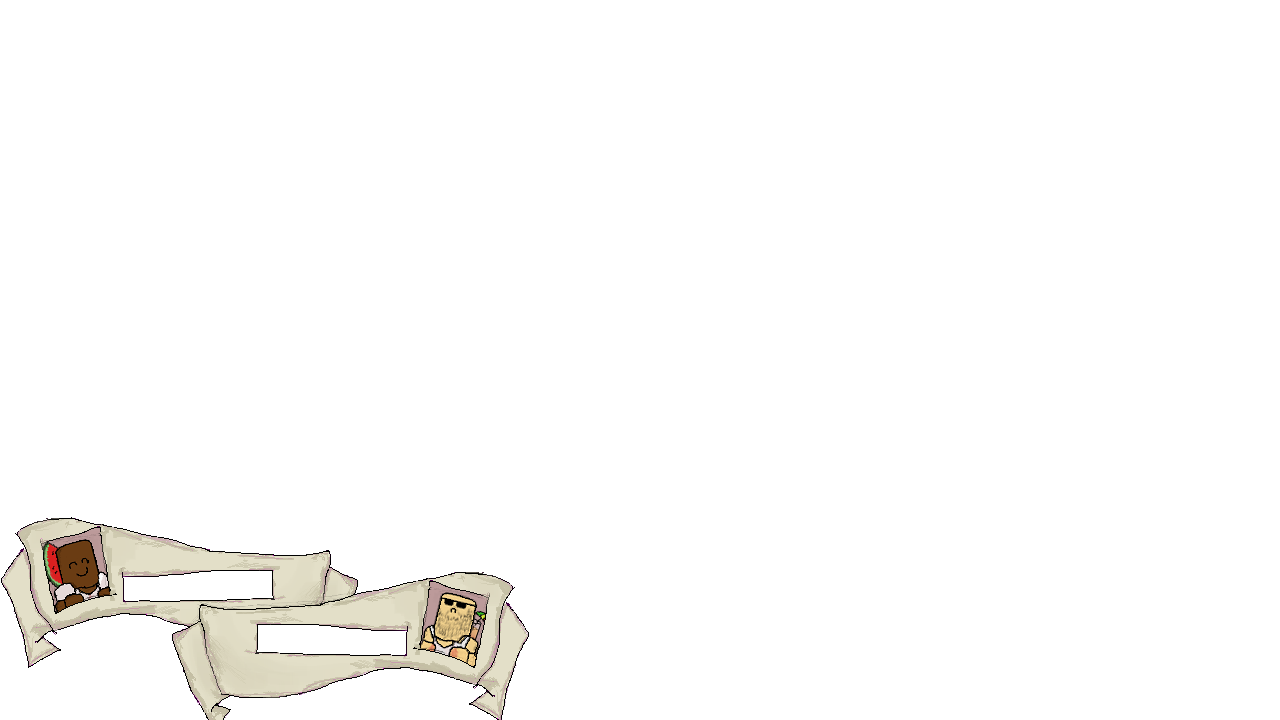
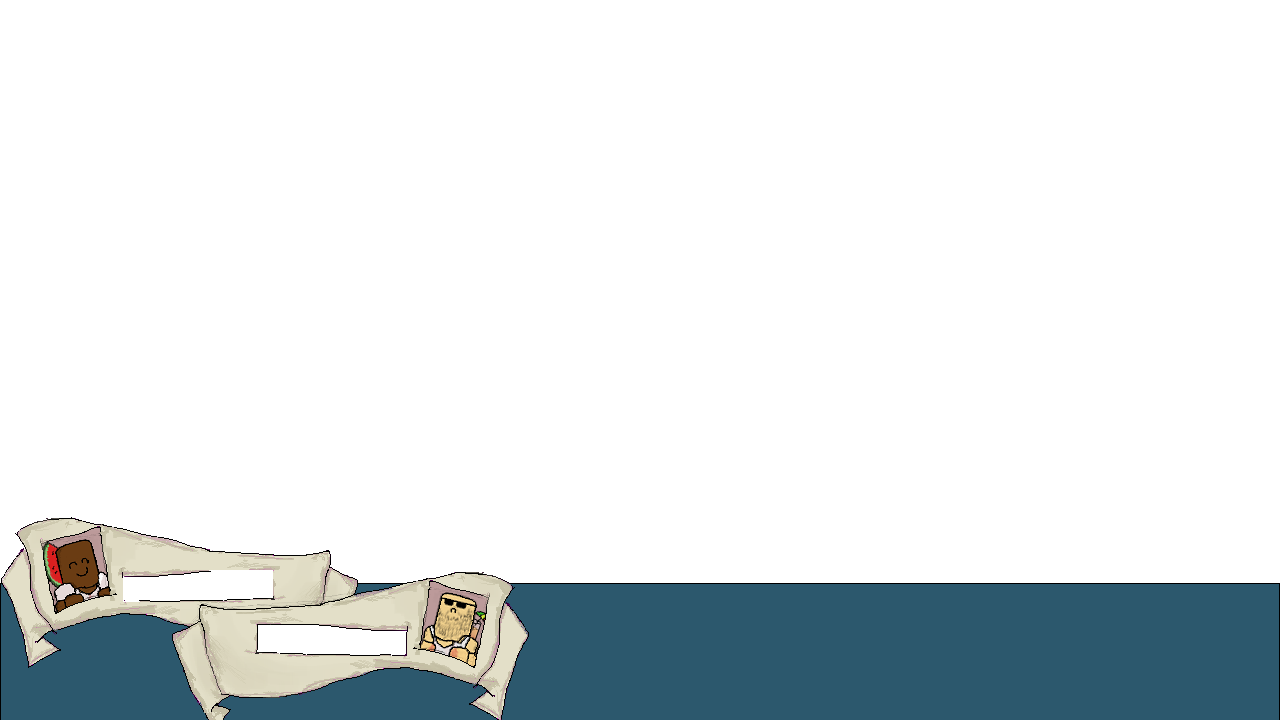
Gjort level 2, kameraren, ritat bilder mm

Changed region(s): [[0.0, 0.7944, 1.0, 1.0], [0.2812, 0.7944, 0.3125, 0.825]]

diff --git a/Johnny_Punch/Johnny_Punch/Level/Level_manager.cs b/Johnny_Punch/Johnny_Punch/Level/Level_manager.cs
@@ -14,31 +14,33 @@ namespace Johnny_Punch
 {
     class LevelManager
     {
+        StreamReader streamReaderEnvironment, streamReaderItems;
         List<string> strings = new List<string>();
         List<Environment> enviromentList = new List<Environment>();
         public List<Item> itemList = new List<Item>();
-        StreamReader streamReaderEnvironment, streamReaderItems;
-        public static int levelNr = 2;
+        public static int levelNr = 1, levelEndPosX;
+        public Rectangle nextLevelBox;
 
         public LevelManager(ContentManager Content)
         {
-            streamReaderEnvironment = new StreamReader(@"lvl1environment.txt");
-            streamReaderItems = new StreamReader(@"lvl1items.txt");
+            streamReaderEnvironment = new StreamReader(@"lvl" + LevelManager.levelNr + "environment.txt");
+            streamReaderItems = new StreamReader(@"lvl" + LevelManager.levelNr + "items.txt");
             MapReader(streamReaderEnvironment);
             ItemReader(streamReaderItems);
+            
         }
 
         public void Update(GameTime gameTime)
         {
-            if (levelNr == 1) //vet ej om detta kommer att fungera, men kan få vara grunden tills vidare
+            if (levelNr == 1)
             {
-                streamReaderEnvironment = new StreamReader(@"lvl1environment.txt");
-                streamReaderItems = new StreamReader(@"lvl1items.txt");
+                levelEndPosX = 5000; //man kan inte gå förbi detta i X-led (player.Movement)
+                nextLevelBox = new Rectangle(levelEndPosX, (int)335, 40, 300); //tar man i denna går man över till level 2
             }
             if (levelNr == 2)
             {
-                streamReaderEnvironment = new StreamReader(@"lvl2environment.txt");
-                streamReaderItems = new StreamReader(@"lvl2items.txt");
+                levelEndPosX = 2500;
+                nextLevelBox = new Rectangle(levelEndPosX, (int)335, 40, 300);
             }
 
             foreach (Item item in itemList)
@@ -57,10 +59,12 @@ namespace Johnny_Punch
             {
                 item.Draw(spriteBatch);
             }
+            spriteBatch.Draw(TextureManager.lifeBarTex, nextLevelBox, Color.Black);
         }
 
         public void MapReader(StreamReader streamReaderEnvironment)
         {
+            streamReaderEnvironment = new StreamReader(@"lvl" + LevelManager.levelNr + "environment.txt");
             while (!streamReaderEnvironment.EndOfStream)
             {
                 strings.Add(streamReaderEnvironment.ReadLine());
@@ -98,6 +102,7 @@ namespace Johnny_Punch
 
         public void ItemReader(StreamReader streamReaderItems)
         {
+            streamReaderItems = new StreamReader(@"lvl" + LevelManager.levelNr + "items.txt");
             while (!streamReaderItems.EndOfStream)
             {
                 strings.Add(streamReaderItems.ReadLine());
@@ -116,13 +121,32 @@ namespace Johnny_Punch
                     {
                         itemList.Add(new PinaColada(TextureManager.pinacolada, new Vector2(j * 91, i * 82)));
                     }
-                    //if (strings[i][j] == 's')
-                    //{
-                    //    itemList.Add(new Sabre(TextureManager.sabreTex, new Vector2(j * 91, i * 82)));
-                    //}
+                    if (strings[i][j] == 'J') //konstigt att trädet är i items, men yolo
+                    {
+                        enviromentList.Add(new JungleTree(TextureManager.jungleEntranceTex, new Vector2(j * 82, 10 + i * 82)));
+                    }
                 }
             }
             strings.Clear();
-        } // jag lade till en textfil för items. Kanske fiender också?
+        }
+
+        public void NextLevel(PlayerManager playerManager, EnemyManager enemyManager)
+        {
+            for (int i = 0; i < playerManager.playerList.Count; i++)
+            {
+                if (playerManager.playerList[i].boundingBox.Intersects(nextLevelBox))
+                {
+                    playerManager.playerList[i].pos = new Vector2(800, 400);
+                    Camera.prevCentre.X = 0; //resettar så att kameran hamnar på spelaren igen
+                    enemyManager.enemyList.Clear(); //raderar alla gamla fiender
+                    enviromentList.Clear();
+                    itemList.Clear();
+                    LevelManager.levelNr++;
+                    MapReader(streamReaderEnvironment); //läser om den nya textfilen i level 2
+                    ItemReader(streamReaderItems);
+                    Game1.ready = false; //fet loadingscreen
+                }
+            }
+        }
     }
 }

diff --git a/Johnny_Punch/Johnny_Punch/Level/JungleTree.cs b/Johnny_Punch/Johnny_Punch/Level/JungleTree.cs
@@ -11,20 +11,18 @@ using Microsoft.Xna.Framework.Media;
 
 namespace Johnny_Punch
 {
-     public class Environment
+    class JungleTree : Environment
     {
-         protected Vector2 pos;
-         protected Texture2D tex;
-
-        public Environment(Vector2 pos, Texture2D tex)
-         {
-             this.pos = pos;
-             this.tex = tex;
-         }
-
-         public virtual void Draw(SpriteBatch spriteBatch)
+        public JungleTree(Texture2D tex, Vector2 pos)
+            : base(pos, tex)
         {
-            spriteBatch.Draw(tex, pos, null, Color.White, 0, Vector2.Zero, 1, SpriteEffects.None, 0);
+
+        }
+
+        public override void Draw(SpriteBatch spriteBatch)
+        {
+            spriteBatch.Draw(tex, pos, null, Color.White, 0, Vector2.Zero, 1, SpriteEffects.None, 1);
         }
     }
 }
+

diff --git a/Johnny_Punch/Johnny_Punch/Other/Camera.cs b/Johnny_Punch/Johnny_Punch/Other/Camera.cs
@@ -12,7 +12,8 @@ namespace Johnny_Punch
         public static Vector2 prevCentre;
         public Matrix transform;
         Viewport view;
-        public Vector2 centre;
+        public static Vector2 centre;
+        int CameraAndPlayerSamePos = 1262;
 
         public Camera(Viewport newView)
         {
@@ -24,7 +25,7 @@ namespace Johnny_Punch
 
             centre = new Vector2(playerPos.X + (pRec.Width / 2) - 800, 0);
 
-            if (prevCentre.X < centre.X)
+            if (prevCentre.X < centre.X && centre.X + CameraAndPlayerSamePos < LevelManager.levelEndPosX)
             {
                 transform = Matrix.CreateScale(new Vector3(1, 1, 0))
                 * Matrix.CreateTranslation(new Vector3(-centre.X, -centre.Y, 0));

diff --git a/Johnny_Punch/Johnny_Punch/Game/Texture_manager.cs b/Johnny_Punch/Johnny_Punch/Game/Texture_manager.cs
@@ -50,6 +50,7 @@ namespace Johnny_Punch
         public static Texture2D roadTex { get; private set; }
         public static Texture2D startMenuTex { get; private set; }
         public static Texture2D smallPlantTex { get; private set; }
+        public static Texture2D jungleEntranceTex { get; private set; }
         #endregion
 
         #region Player graphics
@@ -115,6 +116,7 @@ namespace Johnny_Punch
             roadTex = Content.Load<Texture2D>(@"Images\road");
             startMenuTex = Content.Load<Texture2D>(@"Images\startmenu");
             smallPlantTex = Content.Load<Texture2D>(@"Images\plant");
+            jungleEntranceTex = Content.Load<Texture2D>(@"Images\jungleEntrance");
 
             #endregion
 

diff --git a/Johnny_Punch/Johnny_Punch/Movables/Player/Player_manager.cs b/Johnny_Punch/Johnny_Punch/Movables/Player/Player_manager.cs
@@ -96,7 +96,7 @@ namespace Johnny_Punch
                         {
                             //enemyManager.enemyList[j].pos.X -= 2;
                             enemyManager.enemyList[j].life -= 1;
-                        particleExplosion = new ParticleExplosion(TextureManager.bloodTex, new Vector2(playerList[0].punchBox.X, playerList[0].punchBox.Y), Color.Red);
+                            particleExplosion = new ParticleExplosion(TextureManager.bloodTex, new Vector2(playerList[0].punchBox.X, playerList[0].punchBox.Y), Color.Red);
                             break;
 
                         }
@@ -130,5 +130,6 @@ namespace Johnny_Punch
                 }
             }
         }
+
     }
 }

diff --git a/Johnny_Punch/Johnny_Punch/Game/Game_manager.cs b/Johnny_Punch/Johnny_Punch/Game/Game_manager.cs
@@ -62,10 +62,11 @@ namespace Johnny_Punch
                     }
 
                     levelManager.Update(gameTime);
+                    levelManager.NextLevel(playerManager, enemyManager);
 
                     playerManager.Update(gameTime);
                     playerManager.LandingPunches(enemyManager);
-                    playerManager.CollectItems(levelManager);
+                    playerManager.CollectItems(levelManager);                    
 
                     enemyManager.Update(gameTime);
                     enemyManager.AggroPlayer(playerManager, gameTime);

diff --git a/Johnny_Punch/Johnny_Punch/Movables/Player/Player.cs b/Johnny_Punch/Johnny_Punch/Movables/Player/Player.cs
@@ -144,7 +144,7 @@ namespace Johnny_Punch
             if (!fight)
             {
                 #region Walk Right
-                if (keyBoardState.IsKeyDown(Keys.D) && !block)
+                if (keyBoardState.IsKeyDown(Keys.D) && !block && pos.X < LevelManager.levelEndPosX)
                 {
                     speed.X = 3;
                     moving = true;

diff --git a/Johnny_Punch/Johnny_Punch/Movables/Enemy/EnemyManager.cs b/Johnny_Punch/Johnny_Punch/Movables/Enemy/EnemyManager.cs
@@ -75,7 +75,7 @@ namespace Johnny_Punch
         {
             for (int i = 0; i < enemyList.Count; i++)
             {
-                if (enemyList[i].deathBlinkCount >= 7)
+                if (enemyList[i].deathBlinkCount >= 7) // när han blinkat vitt ett par gånger så dör han
                 {
                     enemyList.RemoveAt(i);
                 }
